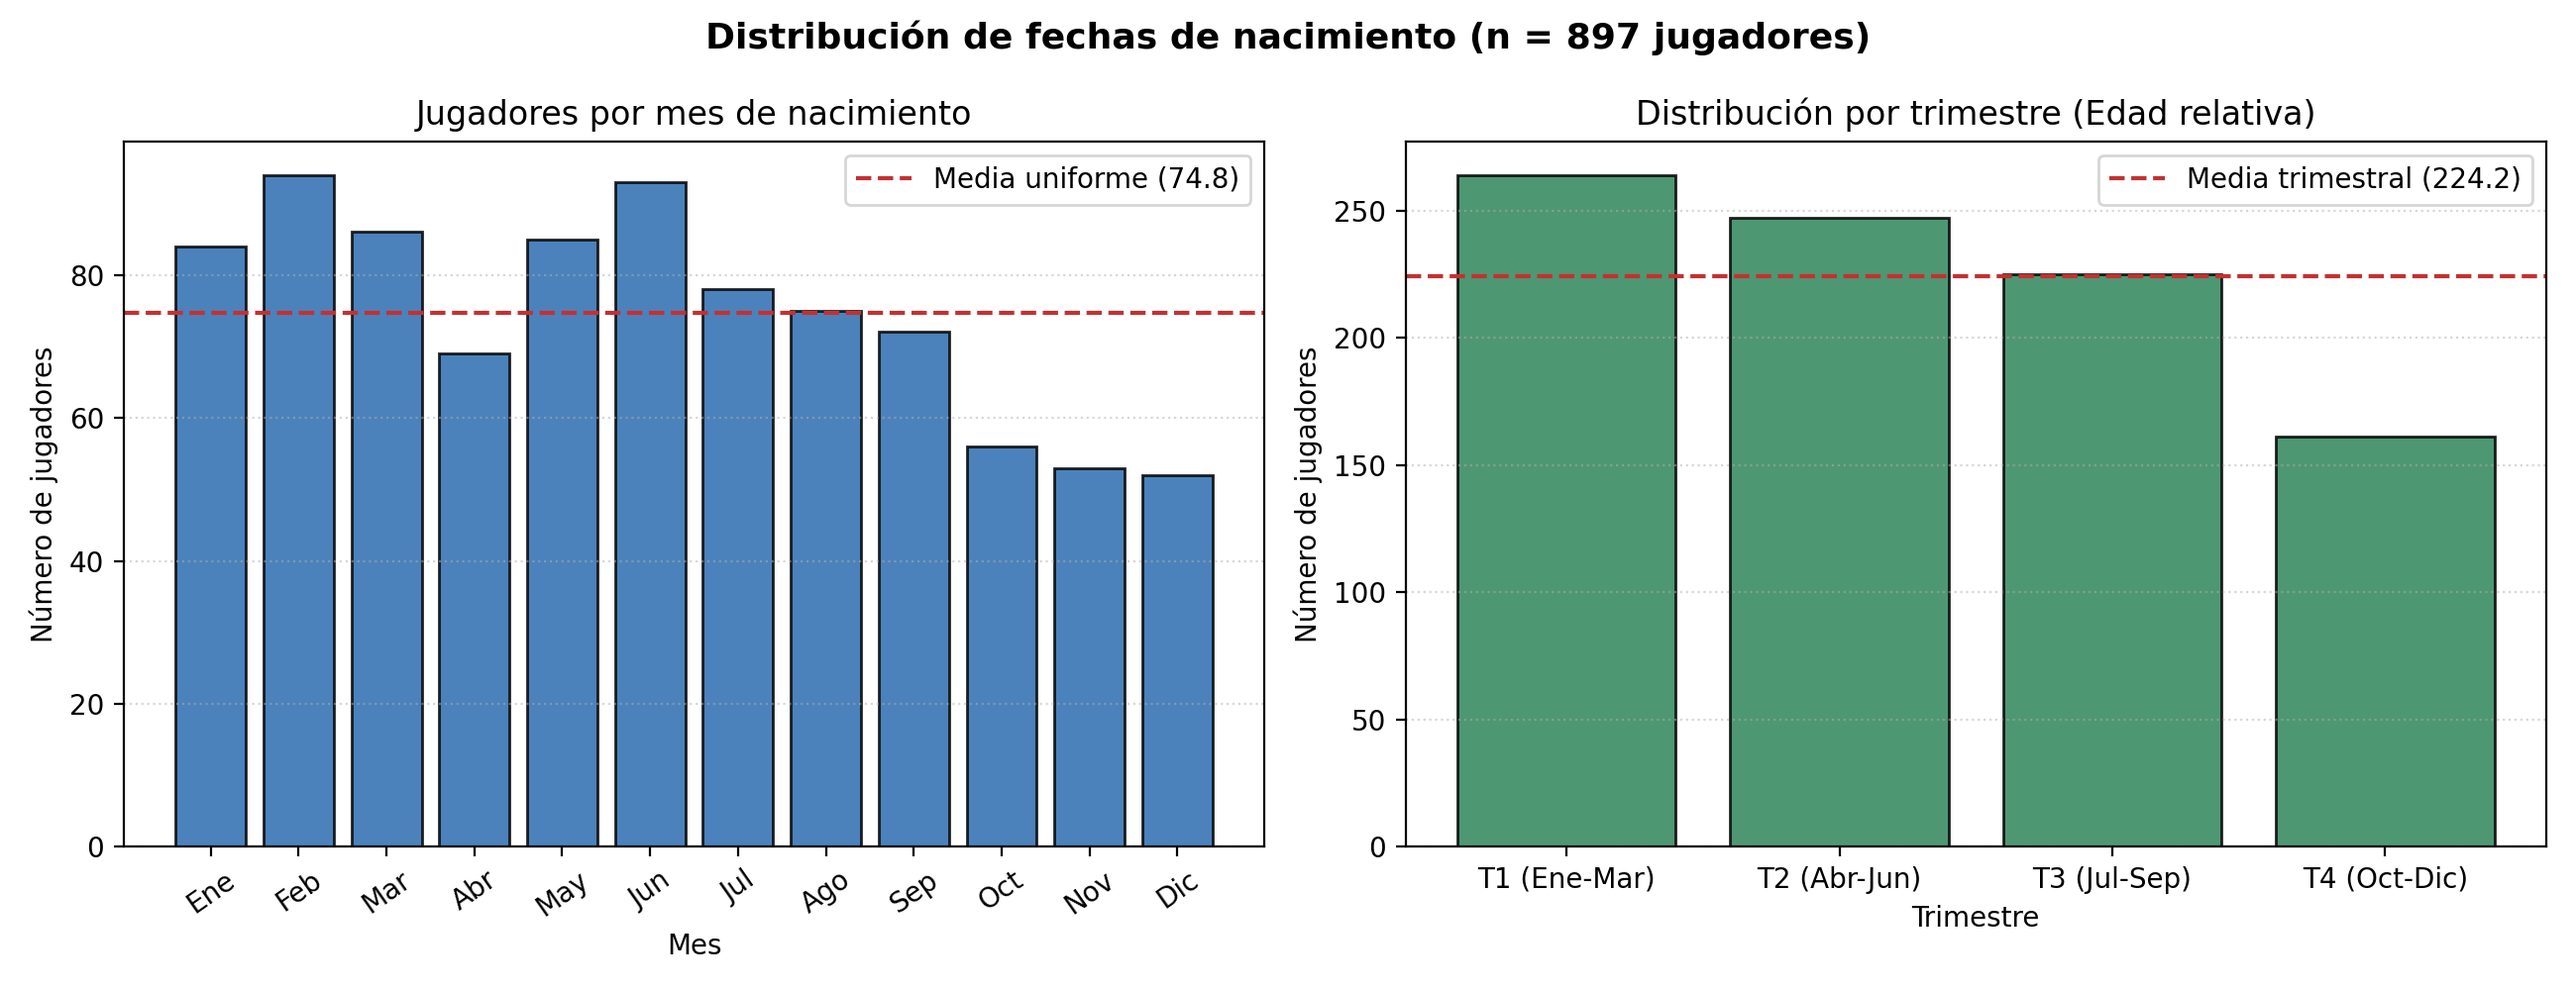
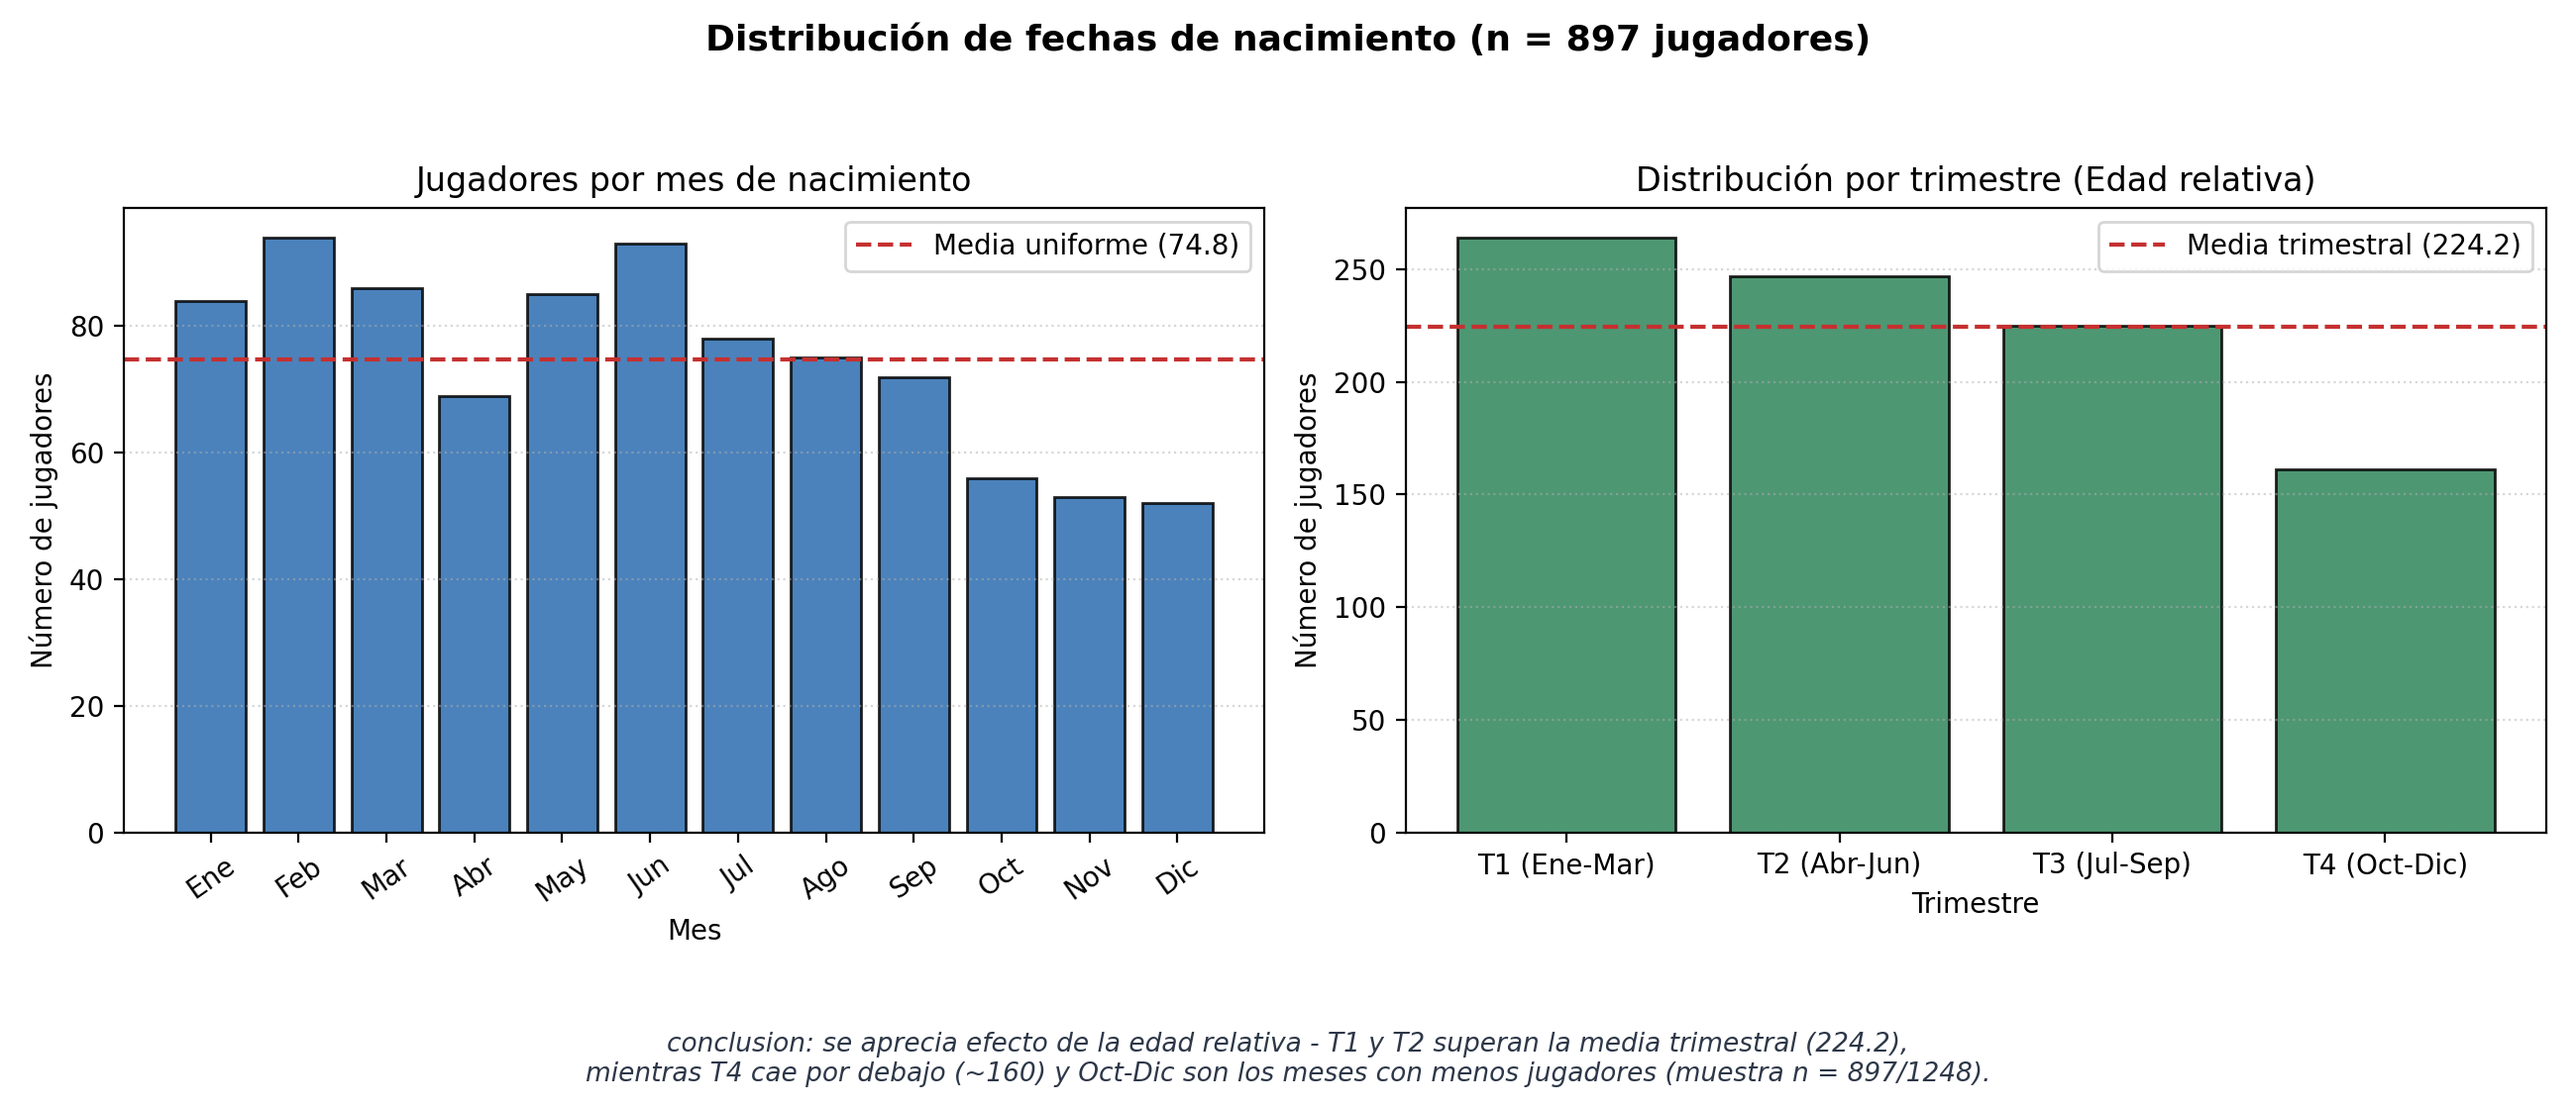
anadir conclusion en grafica de edad relativa

diff --git a/scripts/bloque4.py b/scripts/bloque4.py
@@ -454,7 +454,7 @@ def analizar_y_graficar_nacimientos(
 
     #creamos una figura con dos subgraficos: por mes y por trimestre
     os.makedirs(os.path.dirname(ruta_grafico), exist_ok=True)
-    fig, (ax1, ax2) = plt.subplots(1, 2, figsize=(13, 5))
+    fig, (ax1, ax2) = plt.subplots(1, 2, figsize=(13, 5.6))
 
     #grafico por mes
     ax1.bar(
@@ -505,10 +505,27 @@ def analizar_y_graficar_nacimientos(
         fontsize=13,
         fontweight="bold",
     )
-    plt.tight_layout()
+
+    conclusion = (
+        "conclusion: se aprecia efecto de la edad relativa - T1 y T2 superan la"
+        " media trimestral (224.2),\nmientras T4 cae por debajo (~160) y"
+        " Oct-Dic son los meses con menos jugadores (muestra n = 897/1248)."
+    )
+    fig.text(
+        0.5,
+        0.02,
+        conclusion,
+        ha="center",
+        va="bottom",
+        fontsize=9.5,
+        style="italic",
+        color="#2d3748",
+    )
+
+    #dejamos margen abajo (0.12) para que el texto no se solape con los ejes
+    plt.tight_layout(rect=[0, 0.12, 1, 0.94])
     plt.savefig(ruta_grafico, dpi=200)
     plt.close(fig)
-    print(f"\nGráfico guardado en: {ruta_grafico}")
 
 
 def main():
